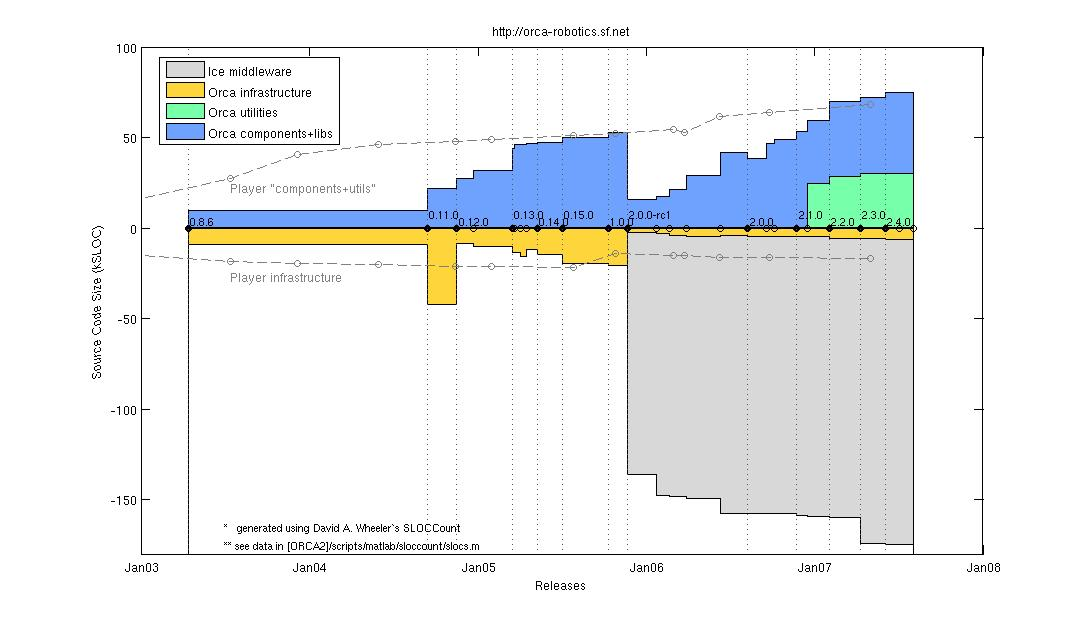
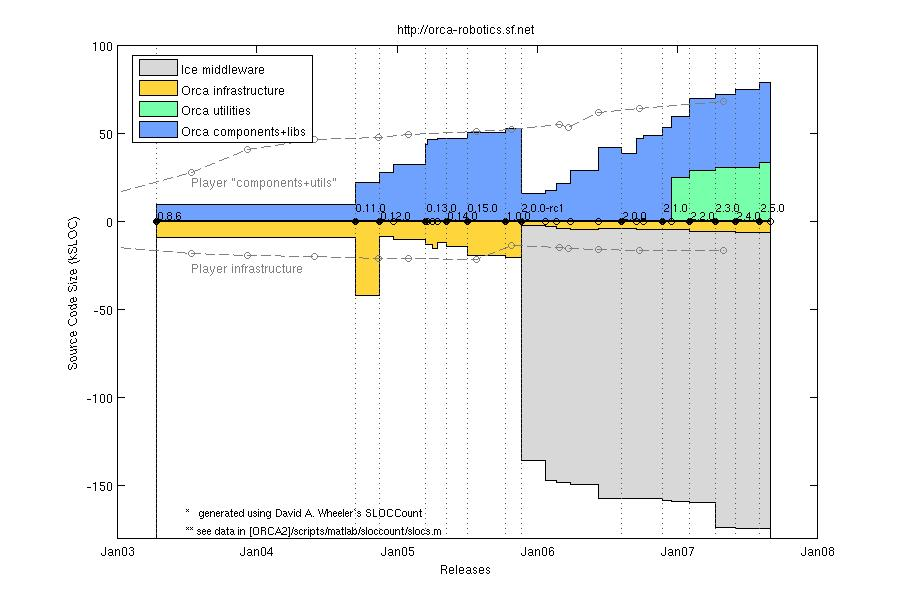
*** empty log message ***
git-svn-id: https://orca-robotics.svn.sf.net/svnroot/orca-robotics/orca/trunk@2707 534d5172-be3c-0410-9a3e-ccaa6372a113

diff --git a/scripts/matlab/sloccount/slocs.m b/scripts/matlab/sloccount/slocs.m
@@ -74,7 +74,7 @@ Sorca = [ ...
 2007     2   2  1   Sice311 6225-2011+1671  70376-29436     28519  % 2.2.0
 2007     4  10  1   Sice320 6232-2011+1671  72704-30907     30121  % 2.3.0
 2007     6   3  1   Sice320 6837-2056+1682  75506-31245     30166  % 2.4.0
-2007     8   3  1   Sice320 6837-2056+1682  75506-31245     30166  % 2.5.0
+2007     8   3  1   Sice320 7035-2166+1682  79398-33880     33172  % 2.5.0
 ];
 Vorca ={'0.8.6', '0.11.0', '0.12.0', '0.12.1', '0.13.0', '0.13.1', '0.13.2', '0.13.3', '0.14.0', '0.15.0', '1.0.0', ...
     '2.0.0-rc1', '2.0.0-rc2', '2.0.0-rc3', '2.0.0-rc4', '2.0.0-rc5', '2.0.0', '2.0.1', '2.0.2', '2.1.0', '2.1.1', ...
